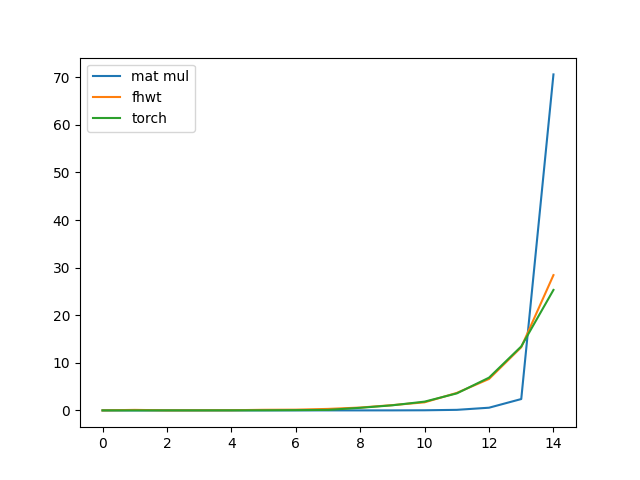
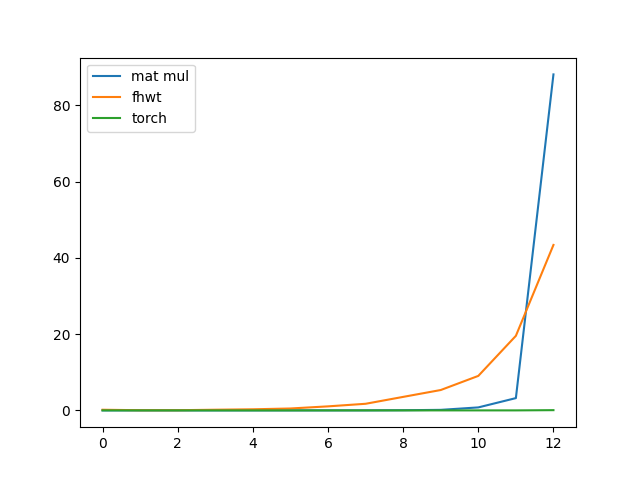
Pytorch is the way to go re hadamard transform

diff --git a/circuit.py b/circuit.py
@@ -1,5 +1,4 @@
 from pprint import pprint
-import itertools
 from time import time
 
 from hadamard_transform import hadamard_transform
@@ -13,33 +12,24 @@ import pandas as pd
 import torch
 # import seaborn as sns
 
-# import graph
+import graph
 
 # sns.set(style="ticks")
 
 
 def main():
-    network = nx.complete_graph(3)
-    cir = Circuit(network, theta=np.pi/4)
-    pass
-
-
-@profile
-def profile_function():
-    had_times = []
-    fwht_times = []
-    torch_times = []
-    for n in range(1, 16):
-        network = nx.complete_graph(n)
-        cir = Circuit(network, theta=np.pi/4)
-        h, f, t = cir.prob_distribution()
-        had_times.append(h)
-        fwht_times.append(f)
-        torch_times.append(t)
-    plt.plot(had_times, label="mat mul")
-    plt.plot(fwht_times, label="fhwt")
-    plt.plot(torch_times, label="torch")
-    plt.legend()
+    graph_type = graph.GraphTypes.complete
+    delays = []
+    for n in range(1, 18):
+        start = time()
+        g = nx.complete_graph(n)
+        cir = Circuit(g, np.pi/4, graph_type)
+        cir.prob_distribution()
+        delays.append(time() - start)
+        print(n, delays[-1])
+    plt.plot(delays)
+    plt.xlabel('Qubits')
+    plt.ylabel('Time / s')
     plt.show()
 
 
@@ -56,38 +46,64 @@ class ColumnHeaders:
 
 
 class Circuit:
+    @profile
     def __init__(self, network, theta=np.pi, graph_type=None):
         """
         Build IQP circuit from networkx Graph and calculate output prob distr.
         """
         self.network = network          # networkx.Graph object defining circuit
+        self.edges = tuple(network.edges)
         self.graph_type = graph_type    # e.g. line, ring, complete...
         self._theta = theta             # IQP theta for all gates
 
         self.n = len(network)       # number of vertices / qubits
         self.N = int(2 ** self.n)   # number of possible states / bitstrings
 
+        self.exponents = self._gen_exponents()
         self.psi = self._gen_psi()  # state before final hadamard and mmnt
 
-    def _exponent_sum(self, bitstring):
+    def _exponent_sum_1(self, x):
         """
         Calculate the sum for the exponent required to evolve each qubit state.
         """
+        x = gen_bitstring(x, self.n)
+        return sum(map(lambda e: (-1) ** (int(x[e[0]]) + int(x[e[1]])), self.edges))
+
+    def _exponent_sum_2(self, x):
+        """
+        Sum elements of bitstring corresponding to x according to edges.
+        Uses bitwise logic for slight performance improvement.
+        """
+        # Each edge e has vertex i and j
+        # Bitwise >> shifts elements i and j of bitstring to zeroth position
+        # Bitwise XOR ^ between these elements
+        # Double output with bitwise << 1
+        # Give either 0 or 2 with bitwise & 2
+        # Subtract 1 to output either +1 or -1 as required
+        # Map over all edges and sum
+        return sum(map((lambda e: ((((x >> e[0]) ^ (x >> e[1])) << 1) & 2) - 1), self.edges))
+
+    def _exponent_sum_3(self, x):
+        x = gen_bitstring(x, self.n)
         exponent = 0
-        for j, k in self.network.edges:
-            exponent += (-1) ** (int(bitstring[j]) + int(bitstring[k]))
-        return -exponent
+        for i, j in self.edges:
+            exponent += (-1) ** (int(x[i]) + int(x[j]))
+        return exponent
+
+    def _gen_exponents(self):
+        """
+        Generate the bitstring sums for the exponents once.
+        """
+        e = np.array([self._exponent_sum_3(x) for x in range(self.N)], dtype=complex)
+        # e = np.array([self._exponent_sum_1(x) for x in range(self.N)], dtype=complex)
+        # e = np.array([self._exponent_sum_2(x) for x in range(self.N)], dtype=complex)
+        return e
 
     def _gen_psi(self):
         """
         Psi is the circuit state before final Hadamard and measurement.
         """
-        psi = np.array([-1] * self.N, dtype=np.complex128)
-        for i in range(self.N):
-            bitstring = gen_bitstring(i, self.n)
-            psi[i] = np.e ** (1j * self.theta * self._exponent_sum(bitstring))
-        norm = np.sum(np.abs(psi) ** 2)
-        return psi / np.sqrt(norm)
+        return np.e ** (1j * self.theta * self.exponents)
 
     def _update_graph(self):
         """
@@ -127,7 +143,6 @@ class Circuit:
         result = np.inner(hadamard_output_complex, self.psi)
         return (np.abs(result) ** 2) / (self.N ** 2)
 
-    @profile
     def prob_distribution(self):
         """
         Return probability of each bitstring outcome.
@@ -136,27 +151,10 @@ class Circuit:
         bitstrings = [gen_bitstring(i, self.n) for i in outcomes]
         thetas = [self.theta] * self.N
 
-        had_times = []
-        fwht_times = []
-        torch_times = []
+        torch_psi = torch.asarray(self.psi)
+        amps = hadamard_transform(torch_psi)
+        probs = (np.abs(amps) ** 2) / (self.N ** 2)
 
-        start = time()
-        self.hadamard_mul_prob()
-        had_times.append(time() - start)
-
-        start = time()
-        self.fwht_prob()
-        fwht_times.append(time() - start)
-
-        start = time()
-        self.fwht_prob()
-        torch_times.append(time() - start)
-
-        # start = time()
-        # self.list_comp_prob(outcomes)
-        # list_times.append(time() - start)
-
-        probs = [0] * self.N
         distribution = pd.DataFrame({
             ColumnHeaders.outcome: outcomes,
             ColumnHeaders.bitstring: bitstrings,
@@ -166,44 +164,9 @@ class Circuit:
             ColumnHeaders.num_qubits: self.n,
         })
 
-        # prob_header = ColumnHeaders.probability
-        # distribution[prob_header] /= distribution[prob_header].sum()
-        # return distribution
-
-        return had_times, fwht_times, torch_times
-
-    def hadamard_mul_prob(self):
-        """
-        First method to profile.
-        Calculate Hadamard product of all bitstrings.
-        """
-        hadamard = HadamardSingleton.get(self.N)
-        probs = np.matmul(hadamard, self.psi)
-        return (np.abs(probs) ** 2) / (self.N ** 2)
-
-    def fwht_prob(self):
-        """
-        Second method to profile.
-        Calculate FWHT of all bitstrings.
-        """
-        hadamard_output = fwht(self.psi)
-        result = np.array(hadamard_output, dtype=np.complex128)
-        return (np.abs(result) ** 2) / (self.N ** 2)
-
-    def list_comp_prob(self, outcomes):
-        """
-        Third method to profile.
-        Calculate list of all bitstrings probabilities.
-        """
-        return [self.output_prob(output) for output in outcomes]
-
-    def torch_prob(self):
-        """
-        Fourth method to profile.
-        Calculate pytorch FWHT of all bitstrings.
-        """
-        result = hadamard_transform(self.psi)
-        return (np.abs(result) ** 2) / (self.N ** 2)
+        prob_header = ColumnHeaders.probability
+        distribution[prob_header] /= distribution[prob_header].sum()
+        return distribution
 
     @property
     def theta(self):
@@ -219,6 +182,100 @@ class Circuit:
         """
         self._theta = theta
         self.psi = self._gen_psi()
+
+
+class HadamardProfiling:
+    """
+    Determine which hadamard function is quickest.
+    """
+    def __init__(self):
+        self.cir: Circuit = None
+
+    def profile_function(self, lims=(3, 12)):
+        """
+        Time and plot different methods for hadamard operation.
+        """
+        had_times = []
+        fwht_times = []
+        torch_times = []
+        for n in range(*lims):
+            network = nx.complete_graph(n)
+            self.cir = Circuit(network, theta=np.pi / 4)
+            h, f, t = self.profile_hadamard_methods()
+            had_times.append(h)
+            fwht_times.append(f)
+            torch_times.append(t)
+        plt.plot(had_times, label="mat mul")
+        plt.plot(fwht_times, label="fhwt")
+        plt.plot(torch_times, label="torch")
+        plt.legend()
+        plt.show()
+
+    def profile_torch(self, lims=(3, 16)):
+        """
+        Time and plot pytorch hadamard operation.
+        """
+        torch_times = []
+        for n in range(*lims):
+            network = nx.complete_graph(n)
+            self.cir = Circuit(network, theta=np.pi / 4)
+            start = time()
+            _ = self.torch_prob()
+            delay = time() - start
+            torch_times.append(delay)
+            print(n, delay)
+        plt.plot(torch_times, label="torch")
+        plt.legend()
+        # plt.show()
+
+    def profile_hadamard_methods(self):
+        """
+        Time different methods for hadamard operation.
+        """
+        had_times = []
+        fwht_times = []
+        torch_times = []
+
+        start = time()
+        self.hadamard_mul_prob()
+        had_times.append(time() - start)
+
+        start = time()
+        self.fwht_prob()
+        fwht_times.append(time() - start)
+
+        start = time()
+        _ = self.torch_prob()
+        torch_times.append(time() - start)
+
+        return had_times, fwht_times, torch_times
+
+    def hadamard_mul_prob(self):
+        """
+        First method to profile.
+        Calculate Hadamard product of all bitstrings.
+        """
+        hadamard = HadamardSingleton.get(self.cir.N)
+        probs = np.matmul(hadamard, self.cir.psi)
+        return (np.abs(probs) ** 2) / (self.cir.N ** 2)
+
+    def fwht_prob(self):
+        """
+        Second method to profile.
+        Calculate FWHT of all bitstrings.
+        """
+        hadamard_output = fwht(self.cir.psi)
+        result = np.array(hadamard_output, dtype=np.complex128)
+        return (np.abs(result) ** 2) / (self.cir.N ** 2)
+
+    def torch_prob(self):
+        """
+        Fourth method to profile.
+        Calculate pytorch FWHT of all bitstrings.
+        """
+        psi = torch.asarray(self.cir.psi)
+        result = hadamard_transform(psi)
+        return (np.abs(result) ** 2) / (self.cir.N ** 2)
 
 
 class HadamardSingleton:
